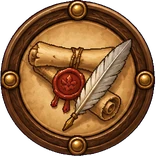
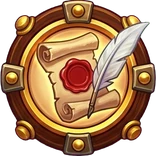
2.132.1: кнопки главной в манере медалей
Новый лист docs/design/home-dock.png в живописной манере медалей,
прежний пиксельный — home-dock-pixel.png. Скрипт нарезки берёт первые
семь медальонов, лишние в конце листа не мешают.

Claude-Session: https://claude.ai/code/session_012FoTdB5qAwJN693kz9isgV

diff --git a/src/content/changelog.ts b/src/content/changelog.ts
@@ -7,6 +7,11 @@ export interface Release {
 // Новые версии сверху. Версия первой записи должна совпадать с package.json (проверяется тестом).
 export const CHANGELOG: Release[] = [
   {
+    version: '2.132.1',
+    date: '2026-10-07',
+    notes: ['Кнопки над картой города перерисованы в той же манере, что и медали: золото, тяжёлый металл и тёплое свечение.'],
+  },
+  {
     version: '2.132.0',
     date: '2026-10-07',
     notes: [

diff --git a/scripts/build-dock-art.py b/scripts/build-dock-art.py
@@ -1,6 +1,6 @@
 """Медальоны кнопок главной (задача 14.1): лист `docs/design/home-dock.png` (промт — `docs/design/home-dock-prompt.md`).
 
-Лист нарисован на пурпурном фоне (#FF00FF). Скрипт снимает фон, находит медальоны как связные области не-фона,
+Лист нарисован на пурпурном фоне (#FF00FF); с 2.133.0 — в живописной манере медалей, прежний пиксельный — `docs/design/home-dock-pixel.png`. Скрипт снимает фон, находит медальоны как связные области не-фона,
 раскладывает их слева направо, сверху вниз и сохраняет в `src/assets/dock/<кнопка>.webp` квадратом в тройном
 размере от показа (кнопка на главной — 52 px). Запуск: python3 scripts/build-dock-art.py
 """
@@ -36,8 +36,9 @@ def main():
     n, _, stats, _ = cv2.connectedComponentsWithStats((a > 0.5).astype(np.uint8), connectivity=8)
     # Медальоны крупные: мелкие пятна (шум сжатия) отбрасываются.
     boxes = [tuple(stats[i][:4]) for i in range(1, n) if stats[i][4] > 5000]
-    if len(boxes) != len(NAMES):
-        raise SystemExit(f'медальонов {len(boxes)}, ожидалось {len(NAMES)}')
+    # Лишние медальоны в конце листа (второй пустой) не нужны; меньше — ошибка.
+    if len(boxes) < len(NAMES):
+        raise SystemExit(f'медальонов {len(boxes)}, ожидалось не меньше {len(NAMES)}')
     # Ряды: по верхнему краю с допуском в половину высоты медальона, внутри ряда — слева направо.
     h = max(b[3] for b in boxes)
     boxes.sort(key=lambda b: (round(b[1] / (h / 2)), b[0]))

diff --git a/CLAUDE.md b/CLAUDE.md
@@ -31,7 +31,7 @@ React 19, Vite 8 (rolldown), TypeScript, Tailwind v4, Zustand, Dexie (IndexedDB)
 - `vite.config.ts` строит виртуальные модули `virtual:grammar-index` (индекс уроков для карты) и `virtual:word-index` (id слов по местам и уровням для пути, `src/content/wordIndex.ts`) и режет уроки на чанки по языку и району.
 - Путь: `src/store/journey.ts` хранит полученные обрывки и печати в `meta.journey` и выдаёт новые через `sync()` (при запуске и в конце урока, вместе с медалями — `syncAndEvaluate`). Полученное не отнимается. Там же открытая глава (`opened`): уровни слов и районы грамматики следующих глав закрыты (`isLevelOpen`, `isDistrictOpen` в `chapters.ts`), глава открывается, когда собрана карта предыдущей. Титул героя (`heroTitle`, хук `useHeroTitle`) зависит от собранных подряд карт, сцена перехода `ChapterScene` показывается один раз на главу (`celebrated`).
 - Уровни слов места: 1–5 открывает здание (`MAX_BUILDING_LEVEL`), уровень 6 (B2, глава IV) — без улучшения, у здания 5-го уровня после выученного уровня 5 (`isWordLevelOpen`, `wordLevelCap` в `src/domain/levels.ts`, их берут `next.ts` и `Location.tsx`). Валидатор требует CEFR главы с уровня 5: 5 — B1, 6 — B2. Уровень 7 (C1, глава V): 25 слов и до 15 устойчивых выражений на место. Выражение — запись слова с полем `kind` (`collocation`, `idiom`, `formula`, `false-friend`), обязательным `register`, у идиомы `literal`, у ложного друга `note`, `pair` — взаимная ссылка на выражение в другом регистре (`checkExpression`, `checkPairs` в `validate.ts`). Метки регистра и вида — `wordTags` в `src/domain/expression.ts`, компонент `WordTags`; в цель 3000 слов выражения не входят. Одинаковый перевод у слов разных мест и свитков одного языка — предупреждение (`validateTranslations`): в задании «Как сказать» было бы два верных ответа.
-- Пролог (задача 13.2): `src/content/<язык>/prologue.json` (Привратник `gatekeeper`, три слова курса `words`, реплики `gate`/`road`/`finale` с `who`, три ответа жителю кафе `mission`, `gloss`; проверка `validatePrologue`, загрузка `src/content/prologue.ts`), экран `/prologue` (`src/screens/Prologue.tsx`: шаги `PROLOGUE_STEPS`), запись `meta.prologue` (`src/store/prologue.ts`: `done`, `skipped`, `shard` — обрывок пролога, в 100 обрывков глав не входит, виден на карте странствий). Главная без карточек ведёт в пролог (`prologuePending`), у начавших раньше его нет (`legacyPrologue`). Блоки главной открываются по мере игры (`homeBlocks`, `HOME_UNLOCK_WORDS`) и с 2.131.0 (задача 14.1) стоят рядом круглых кнопок `home-dock` (`DockButton` в `Home.tsx`: медальон из `src/assets/dock/<кнопка>.webp` — режет `scripts/build-dock-art.py` из `docs/design/home-dock.png`, промт `docs/design/home-dock-prompt.md`; подпись и бейдж кодом, полный текст для диктора в `sr-only`; `testid` прежних блоков сохранены): над картой города только панель, «Продолжить» и этот ряд, карта видна без прокрутки (`home.spec.ts`). Сквозные тесты пропускают пролог в `openApp` (`{ prologue: true }` — не пропускать), свой сценарий — `prologue.spec.ts`.
+- Пролог (задача 13.2): `src/content/<язык>/prologue.json` (Привратник `gatekeeper`, три слова курса `words`, реплики `gate`/`road`/`finale` с `who`, три ответа жителю кафе `mission`, `gloss`; проверка `validatePrologue`, загрузка `src/content/prologue.ts`), экран `/prologue` (`src/screens/Prologue.tsx`: шаги `PROLOGUE_STEPS`), запись `meta.prologue` (`src/store/prologue.ts`: `done`, `skipped`, `shard` — обрывок пролога, в 100 обрывков глав не входит, виден на карте странствий). Главная без карточек ведёт в пролог (`prologuePending`), у начавших раньше его нет (`legacyPrologue`). Блоки главной открываются по мере игры (`homeBlocks`, `HOME_UNLOCK_WORDS`) и с 2.131.0 (задача 14.1) стоят рядом круглых кнопок `home-dock` (`DockButton` в `Home.tsx`: медальон из `src/assets/dock/<кнопка>.webp` — режет `scripts/build-dock-art.py` из `docs/design/home-dock.png` (с 2.132.1 — в манере медалей, прежний пиксельный лист — `home-dock-pixel.png`), промт `docs/design/home-dock-prompt.md`; подпись и бейдж кодом, полный текст для диктора в `sr-only`; `testid` прежних блоков сохранены): над картой города только панель, «Продолжить» и этот ряд, карта видна без прокрутки (`home.spec.ts`). Сквозные тесты пропускают пролог в `openApp` (`{ prologue: true }` — не пропускать), свой сценарий — `prologue.spec.ts`.
 - Работа над ошибками (задача 12.2): `src/domain/mistakes.ts` — слабые места по журналу за 30 дней (`weakItems`: ошибки, «почти», медленные ответы, исправленное отсеивается; вид задания — где ошибались), причины (`whyCounts`), навыки (`skillStats`, `skillOf`), план разбора (`mistakesPlan`: до 10, не меньше 4). Поручение Летописца «Разбор ошибок» — карточка `mistakes-card` на экране поручений и экран `/mistakes` (`MistakesScreen` в `src/screens/Errands.tsx`): `ReviewRun` с `kinds` (вид задания слова, `BuildOptions.kinds`), журнал читает `answersSince` (`src/db/answers.ts`), раз в день — `meta.errands.mistakes` (`completeMistakes`). Сквозной тест — `mistakes.spec.ts`.
 - Почему неверно (задача 12.3): `diagnose` в `src/domain/answer.ts` называет причину ошибки только наверняка (`WhyKind`: артикль, ударение, другое слово урока `others`, другая форма `forms` с подписью, опечатка — не в формах грамматики и кузницы, `typos: false`). Грамматика — `diagnoseGrammar` и `tableForms` (формы из таблиц теории, урок берётся из кэша `cachedLesson`), кузница — `ForgeTask.forms`. Строка — в `note` окна итога, вид — `Feedback.why` и `AnswerRecord.why` в журнале; урок правила — `Feedback.rule` (`grammarFeedback(item, c, input, 'link' | 'text')`: ссылка в повторении, название в испытаниях). Сквозной тест — `why.spec.ts`.
 - `src/domain/` — чистая логика без React и базы: проверка ответов (`answer.ts`), интервальное повторение FSRS через `ts-fsrs` (`srs.ts`: стабильность, сложность, `retrievability`), очередь заданий урока (`lessonQueue.ts`), генераторы заданий, экономика города, стрик, медали (`medals.ts`), уровень героя (`heroLevel.ts`), главы и обрывки карты (`chapters.ts`), словарный запас (`vocabulary.ts`). Всё, что можно, пишется здесь и покрывается тестами рядом (`*.test.ts`).

diff --git a/docs/STAGES.md b/docs/STAGES.md
@@ -2328,3 +2328,13 @@
 Попутно починена нестабильность `voice.spec.ts` («без распознавания в браузере кнопки нет», падал в 2.129.0 и 2.132.0). Тест засевал две попытки миссии прямо в базу и сразу открывал миссию в уже запущенном приложении. Экран миссии при открытии вызывает `start` и сохраняет записи миссий из памяти, где попыток ещё нет, поверх засеянных. Иногда это успевало до перезагрузки, и прохождение оказывалось не третьим (плитки вместо ввода). Теперь `seedAttempts` перезагружает приложение сразу после записи.
 
 Проверено: юнит-тесты, сборка, снимки зала медалей (полученные ступени трёх линий, силуэты, тайные полученные и скрытые), полный прогон сквозных тестов (468 из 469, упал только `voice.spec`, починен и прошёл 24 раза подряд).
+
+## Версия 2.132.1. Кнопки главной в манере медалей
+
+Медальоны ряда над картой (`DockButton`) перерисованы по варианту промта «в стиле медалей» из `docs/design/home-dock-prompt.md`: тот же состав и порядок, но живописная манера, золотые рамы с заклёпками и светящийся пергамент. Теперь кнопки главной и медали выглядят как вещи из одного мира.
+
+- Новый лист — `docs/design/home-dock.png`, прежний пиксельный сохранён как `docs/design/home-dock-pixel.png`.
+- На новом листе восемь медальонов, а не семь: генератор нарисовал два пустых. `scripts/build-dock-art.py` теперь берёт первые семь и не падает, если медальонов больше; если меньше — ошибка, как раньше.
+- Исходник пришёл в JPEG, но на краях пурпура не осталось: снятие фона по «пурпурности» это выдерживает.
+
+Проверено: юнит-тесты, сборка, снимок главной, сквозные сценарии главной, пролога и входного теста.

diff --git a/docs/ROADMAP.md b/docs/ROADMAP.md
@@ -1514,3 +1514,4 @@
 | 2026-10-07 | 13.2 Пролог: первые 10 минут | 2.130.0 | ворота и Привратник, три слова, дорога к кафе, три ответа жителю, обрывок пролога, входной тест после пролога; главная открывается по мере игры; свиток III по решению владельца не меняется (12.1 закрыта) |
 | 2026-10-07 | 14.1 Главная: карта на первом экране | 2.131.0 | над картой панель, «Продолжить» и ряд круглых кнопок с бейджами; карта видна без прокрутки |
 | 2026-10-07 | медали картинками | 2.132.0 | оправы ступеней, эмблемы линий и тайные медали по промтам docs/design/medals-prompt.md, scripts/build-medal-art.py; пиксельная медаль кодом убрана |
+| 2026-10-07 | кнопки главной в манере медалей | 2.132.1 | новый лист home-dock.png по промту «Вариант в стиле медалей», прежний — home-dock-pixel.png |
